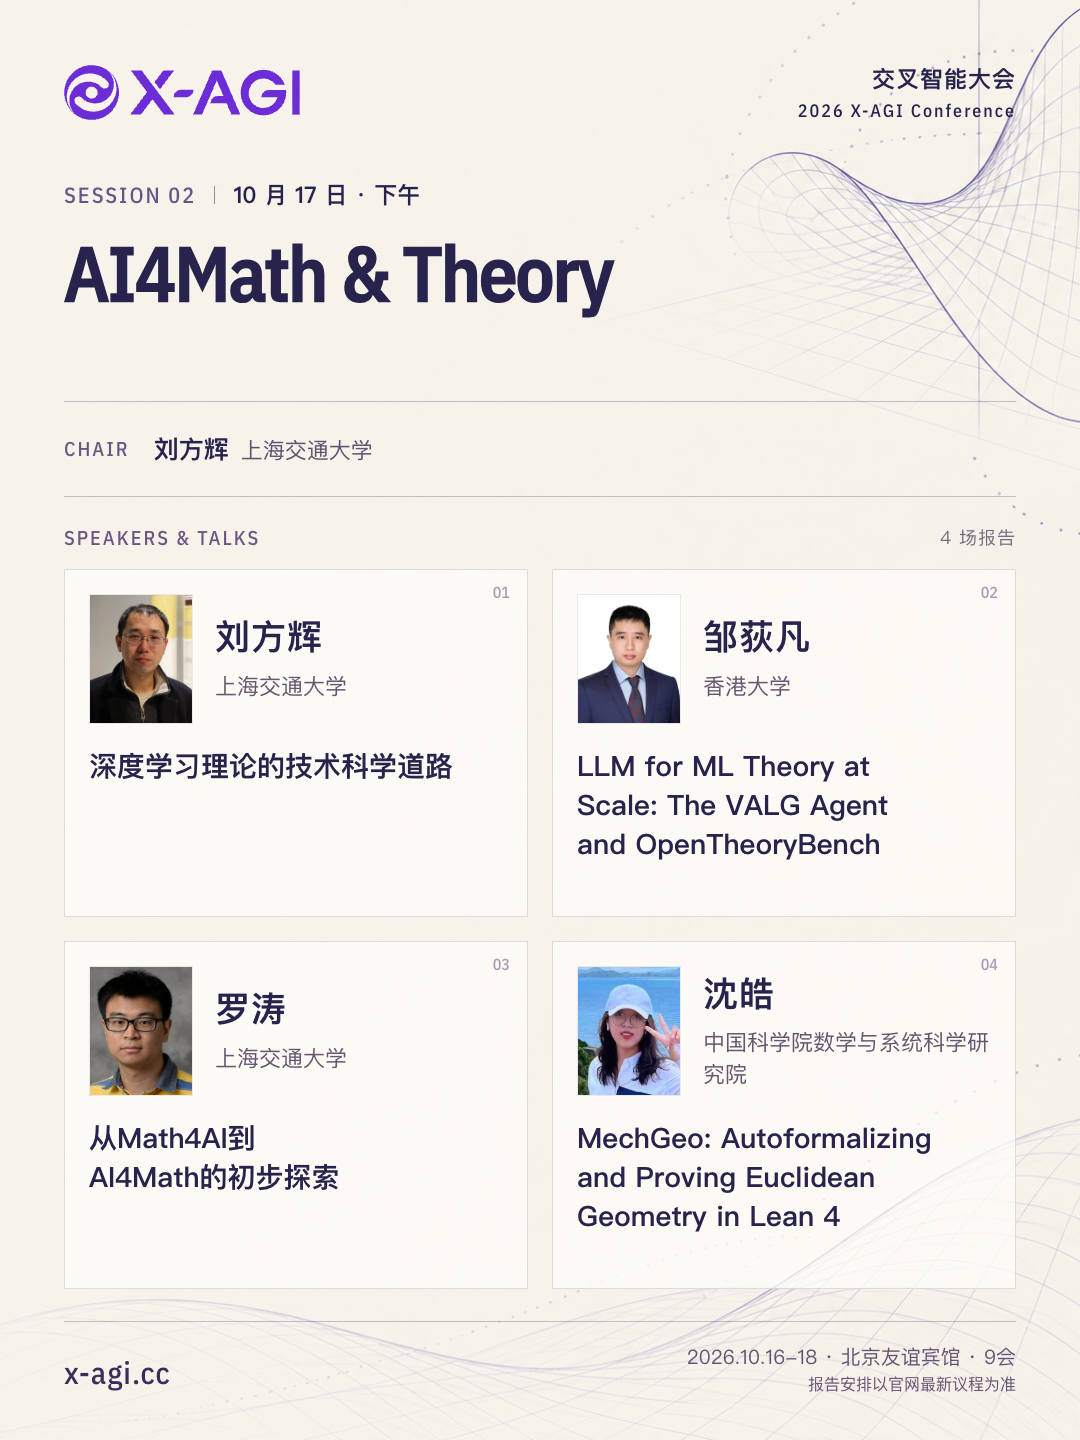
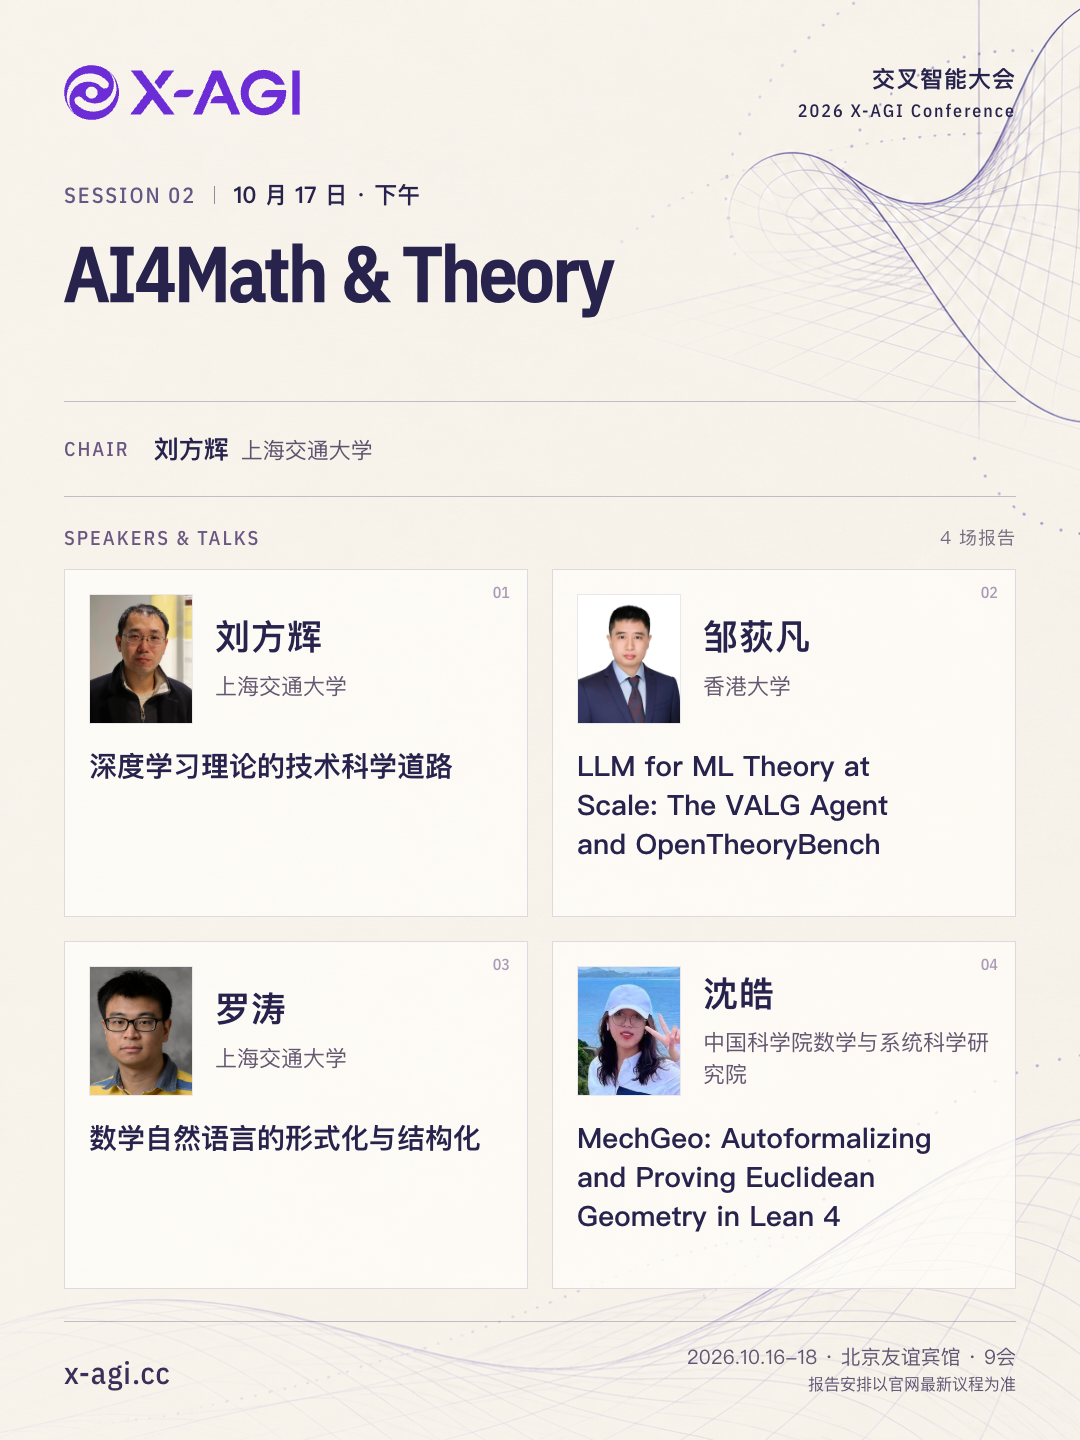
Update Luo Tao talk title and session poster

Changed region(s): [[0.0917, 0.7812, 0.4583, 0.8438]]

diff --git a/src/data/conference2026-program.ts b/src/data/conference2026-program.ts
@@ -31,6 +31,7 @@ const confirmedTalkTitles = new Map([
   ['孙茂松', '人工智能随想录'],
   ['许洪腾', 'An Improved SE(3)-Transformer Driven by Hamiltonian Flow'],
   ['刘方辉', '深度学习理论的技术科学道路'],
+  ['罗涛', '数学自然语言的形式化与结构化'],
   ['王淏楠', 'Signal and Noise in On-Policy Distillation: 1% of Tokens Can Be Enough'],
   ['周峰', '高效大模型'],
 ]);
